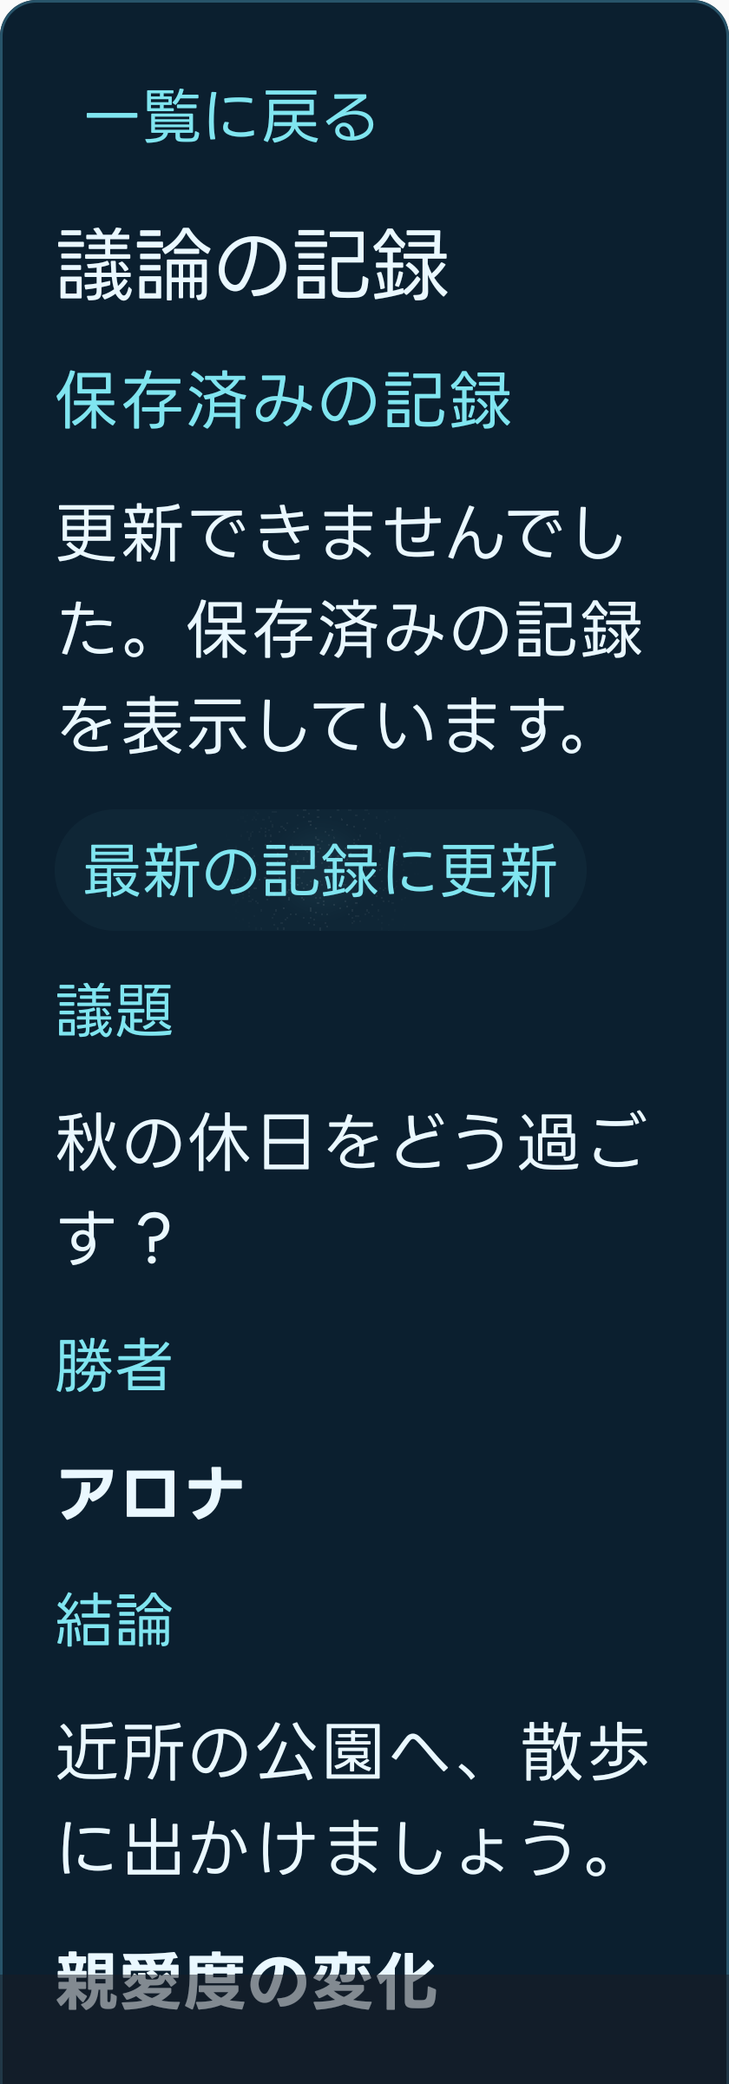
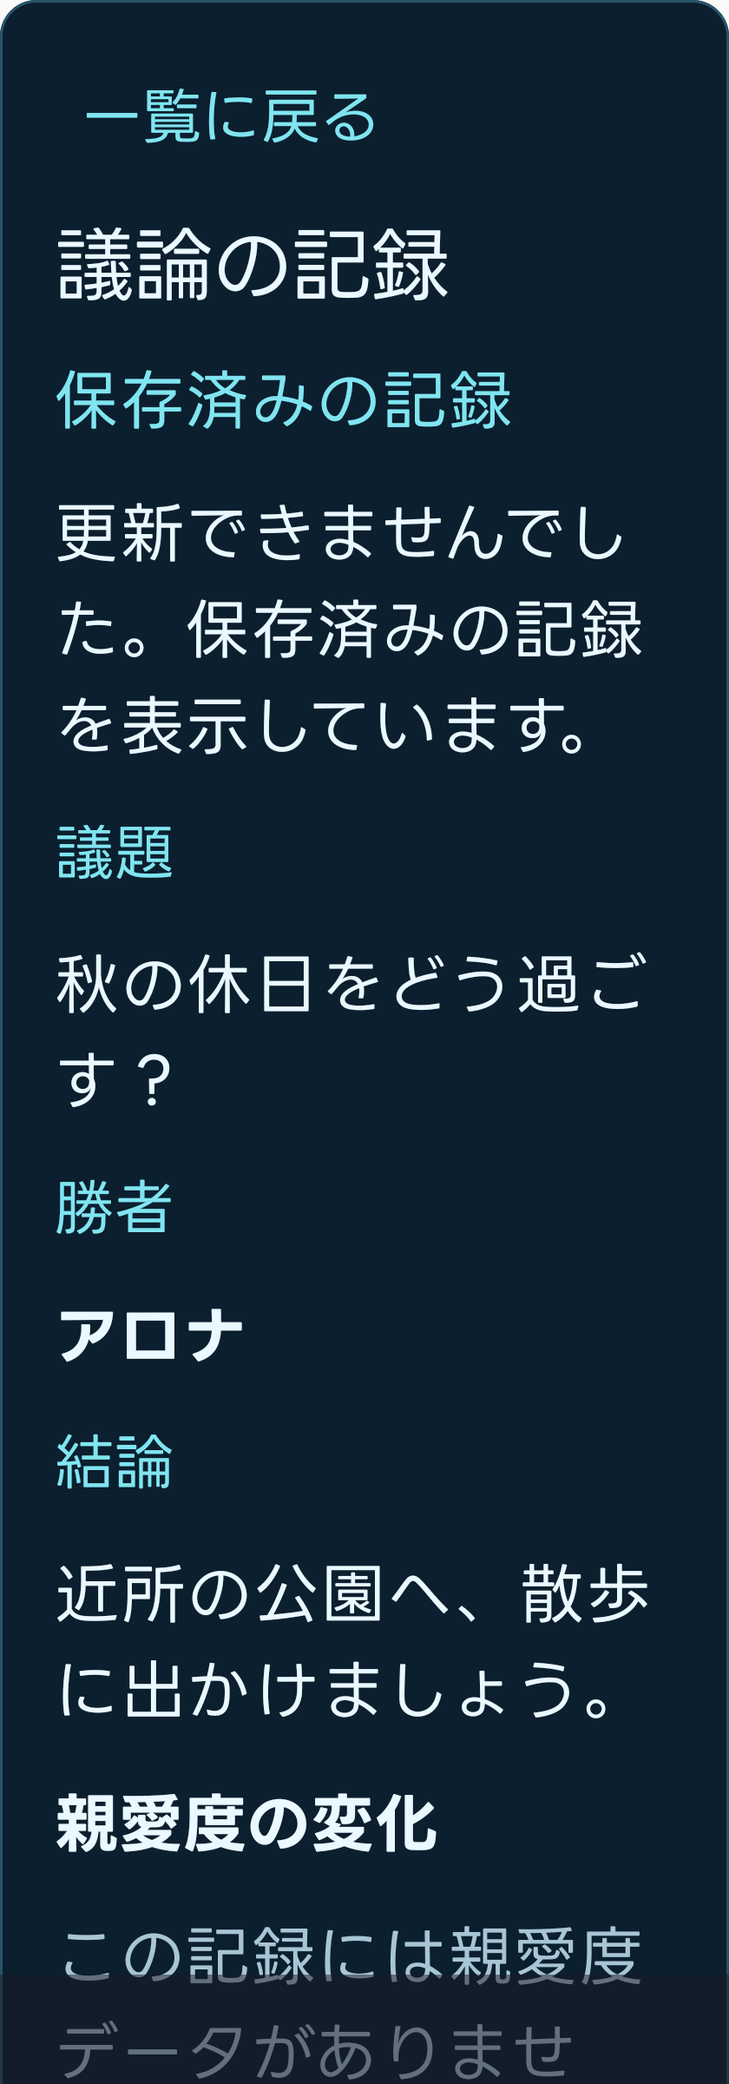
refactor(android): remove manual sync controls

diff --git a/apps/records-android/app/src/androidTest/java/dev/pitekusu/shittim/records/RecordSyncStatusTest.kt b/apps/records-android/app/src/androidTest/java/dev/pitekusu/shittim/records/RecordSyncStatusTest.kt
@@ -4,68 +4,70 @@ import android.graphics.Bitmap
 import androidx.activity.compose.setContent
 import androidx.compose.foundation.layout.Box
 import androidx.compose.foundation.layout.fillMaxWidth
+import androidx.compose.foundation.layout.padding
 import androidx.compose.foundation.layout.width
+import androidx.compose.material3.MaterialTheme
+import androidx.compose.material3.Surface
 import androidx.compose.runtime.CompositionLocalProvider
 import androidx.compose.runtime.mutableStateOf
 import androidx.compose.ui.Modifier
 import androidx.compose.ui.graphics.asAndroidBitmap
 import androidx.compose.ui.platform.LocalDensity
 import androidx.compose.ui.test.assertIsDisplayed
+import androidx.compose.ui.test.assertCountEquals
 import androidx.compose.ui.test.captureToImage
 import androidx.compose.ui.test.junit4.v2.createAndroidComposeRule
+import androidx.compose.ui.test.hasClickAction
 import androidx.compose.ui.test.onNodeWithText
 import androidx.compose.ui.test.onRoot
-import androidx.compose.ui.test.performClick
 import androidx.compose.ui.unit.Density
 import androidx.compose.ui.unit.dp
 import androidx.test.ext.junit.runners.AndroidJUnit4
 import androidx.test.platform.app.InstrumentationRegistry
 import dev.pitekusu.shittim.records.ui.ShittimTheme
 import java.io.File
-import org.junit.Assert.assertEquals
 import org.junit.Rule
 import org.junit.Test
 import org.junit.runner.RunWith
 
 @RunWith(AndroidJUnit4::class)
-class RecordSyncPanelTest {
+class RecordSyncStatusTest {
   @get:Rule val compose = createAndroidComposeRule<MainActivity>()
 
-  @Test fun actionsAndStatusRemainReadableInBothThemesAndLargeText() {
+  @Test fun automaticStatusHasNoActionsAndRemainsReadableInBothThemesAndLargeText() {
     val state = mutableStateOf<RecordSyncState>(RecordSyncState.Idle)
     val dark = mutableStateOf(false)
     val largeText = mutableStateOf(false)
-    val events = mutableListOf<BootstrapScreen.Event>()
     compose.activityRule.scenario.onActivity { activity ->
       activity.setContent {
         val density = LocalDensity.current
         CompositionLocalProvider(LocalDensity provides Density(density.density, if (largeText.value) 2f else 1f)) {
           ShittimTheme(dark.value) {
-            Box(if (largeText.value) Modifier.width(320.dp) else Modifier.fillMaxWidth()) {
-              RecordSyncPanel(state.value, events::add)
+            Surface(color = MaterialTheme.colorScheme.background) {
+              Box((if (largeText.value) Modifier.width(320.dp) else Modifier.fillMaxWidth()).padding(24.dp)) {
+                RecordSyncStatus(state.value)
+              }
             }
           }
         }
       }
     }
-    compose.onNodeWithText(label(R.string.record_sync_start)).performClick()
-    assertEquals(listOf(BootstrapScreen.Event.StartSync), events)
+    compose.onAllNodes(hasClickAction()).assertCountEquals(0)
+    compose.onNodeWithText(label(R.string.record_sync_running)).assertDoesNotExist()
     compose.runOnIdle { state.value = RecordSyncState.Running }
-    compose.onNodeWithText(label(R.string.record_sync_start)).assertDoesNotExist()
-    compose.onNodeWithText(label(R.string.record_sync_pause)).assertDoesNotExist()
+    compose.onNodeWithText(label(R.string.record_sync_running)).assertIsDisplayed()
     capture("sync-light")
     compose.runOnIdle { dark.value = true }
     compose.onNodeWithText(label(R.string.record_sync_running)).assertIsDisplayed()
     capture("sync-dark")
-    compose.runOnIdle { state.value = RecordSyncState.Completed; largeText.value = true }
-    compose.onNodeWithText(label(R.string.record_sync_completed)).assertIsDisplayed()
-    compose.onNodeWithText(label(R.string.record_sync_again)).assertIsDisplayed()
-    capture("sync-large-text")
-    compose.onNodeWithText(label(R.string.record_sync_again)).performClick()
-    compose.runOnIdle { state.value = RecordSyncState.Failed(RecordReadFailure.STORAGE_UNAVAILABLE) }
-    compose.onNodeWithText(label(R.string.record_sync_storage_error)).assertIsDisplayed()
     compose.runOnIdle { state.value = RecordSyncState.Completed }
-    compose.onNodeWithText(label(R.string.record_sync_again)).assertIsDisplayed()
+    compose.onNodeWithText(label(R.string.record_sync_running)).assertDoesNotExist()
+    compose.runOnIdle { state.value = RecordSyncState.Failed(RecordReadFailure.STORAGE_UNAVAILABLE); largeText.value = true }
+    compose.onNodeWithText(label(R.string.record_sync_storage_error)).assertIsDisplayed()
+    compose.onAllNodes(hasClickAction()).assertCountEquals(0)
+    capture("sync-large-text")
+    compose.runOnIdle { state.value = RecordSyncState.Completed }
+    compose.onNodeWithText(label(R.string.record_sync_storage_error)).assertDoesNotExist()
   }
 
   private fun label(id: Int): String = compose.activity.getString(id)

diff --git a/apps/records-android/app/src/main/java/dev/pitekusu/shittim/records/RecordSyncStatus.kt b/apps/records-android/app/src/main/java/dev/pitekusu/shittim/records/RecordSyncStatus.kt
@@ -1,0 +1,48 @@
+package dev.pitekusu.shittim.records
+
+import androidx.compose.foundation.layout.Arrangement
+import androidx.compose.foundation.layout.Row
+import androidx.compose.foundation.layout.fillMaxWidth
+import androidx.compose.foundation.layout.size
+import androidx.compose.material3.CircularProgressIndicator
+import androidx.compose.material3.MaterialTheme
+import androidx.compose.material3.Text
+import androidx.compose.runtime.Composable
+import androidx.compose.ui.Alignment
+import androidx.compose.ui.Modifier
+import androidx.compose.ui.res.stringResource
+import androidx.compose.ui.semantics.LiveRegionMode
+import androidx.compose.ui.semantics.liveRegion
+import androidx.compose.ui.semantics.semantics
+import androidx.compose.ui.unit.dp
+
+internal sealed interface RecordSyncState {
+  data object Idle : RecordSyncState
+  data object Running : RecordSyncState
+  data object Completed : RecordSyncState
+  class Failed(val reason: RecordReadFailure) : RecordSyncState
+}
+
+@Composable
+internal fun RecordSyncStatus(state: RecordSyncState) {
+  val description = when (state) {
+    RecordSyncState.Running -> R.string.record_sync_running
+    is RecordSyncState.Failed -> when (state.reason) {
+      RecordReadFailure.AUTH_REQUIRED -> R.string.record_sync_auth_error
+      RecordReadFailure.STORAGE_UNAVAILABLE -> R.string.record_sync_storage_error
+      else -> R.string.record_sync_error
+    }
+    RecordSyncState.Idle, RecordSyncState.Completed -> return
+  }
+  Row(Modifier.fillMaxWidth(), horizontalArrangement = Arrangement.spacedBy(12.dp),
+    verticalAlignment = Alignment.CenterVertically) {
+    if (state == RecordSyncState.Running) {
+      // Background enumeration has no known total; do not invent a percentage.
+      CircularProgressIndicator(Modifier.size(20.dp), strokeWidth = 2.dp)
+    }
+    Text(stringResource(description), style = MaterialTheme.typography.bodySmall,
+      color = if (state is RecordSyncState.Failed) MaterialTheme.colorScheme.error
+        else MaterialTheme.colorScheme.onSurfaceVariant,
+      modifier = Modifier.weight(1f).semantics { liveRegion = LiveRegionMode.Polite })
+  }
+}

diff --git a/apps/records-android/app/src/androidTest/java/dev/pitekusu/shittim/records/OfflineRecordsUiTest.kt b/apps/records-android/app/src/androidTest/java/dev/pitekusu/shittim/records/OfflineRecordsUiTest.kt
@@ -10,8 +10,10 @@ import androidx.compose.ui.Modifier
 import androidx.compose.ui.graphics.asAndroidBitmap
 import androidx.compose.ui.platform.LocalDensity
 import androidx.compose.ui.test.assertIsDisplayed
+import androidx.compose.ui.test.assertCountEquals
 import androidx.compose.ui.test.captureToImage
 import androidx.compose.ui.test.junit4.v2.createAndroidComposeRule
+import androidx.compose.ui.test.hasClickAction
 import androidx.compose.ui.test.onNodeWithText
 import androidx.compose.ui.test.onRoot
 import androidx.compose.ui.test.performClick
@@ -31,7 +33,7 @@ import org.junit.runner.RunWith
 class OfflineRecordsUiTest {
   @get:Rule val compose = createAndroidComposeRule<MainActivity>()
 
-  @Test fun savedDetailAndUpdateFailureRemainReadableAndRetryable() {
+  @Test fun savedDetailAndUpdateFailureRemainReadableWithoutSyncControls() {
     val dark = mutableStateOf(false)
     val large = mutableStateOf(false)
     val events = mutableListOf<BootstrapScreen.Event>()
@@ -56,10 +58,11 @@ class OfflineRecordsUiTest {
       compose.runOnIdle { dark.value = isDark; large.value = isLarge }
       compose.onNodeWithText(label(R.string.record_saved)).assertIsDisplayed()
       compose.onNodeWithText(label(R.string.record_refresh_failed)).assertIsDisplayed()
-      compose.onNodeWithText(label(R.string.record_refresh)).performClick()
+      compose.onAllNodes(hasClickAction()).assertCountEquals(1) // Only the return-to-list action.
       capture(name)
     }
-    assertEquals(List(3) { BootstrapScreen.Event.RetryRecord }, events)
+    compose.onNodeWithText(label(R.string.record_close)).performClick()
+    assertEquals(listOf(BootstrapScreen.Event.CloseRecord), events)
   }
 
   @Test fun authorizedOfflineDetailClosesOnBackAndDisappearsWhenLocked() {

diff --git a/apps/records-android/app/src/main/java/dev/pitekusu/shittim/records/RecordListPanel.kt b/apps/records-android/app/src/main/java/dev/pitekusu/shittim/records/RecordListPanel.kt
@@ -56,6 +56,7 @@ internal fun LazyListScope.recordListItems(
   state: RecordListState,
   pagingItems: LazyPagingItems<RecordListEntry>?,
   onEvent: (BootstrapScreen.Event) -> Unit,
+  sync: RecordSyncState = RecordSyncState.Idle,
 ) {
   item(key = "records-heading") {
     Column(verticalArrangement = Arrangement.spacedBy(8.dp)) {
@@ -65,20 +66,22 @@ internal fun LazyListScope.recordListItems(
         modifier = Modifier.semantics { heading() })
     }
   }
+  if (sync == RecordSyncState.Running || sync is RecordSyncState.Failed) {
+    item(key = "records-sync-status") { RecordSyncStatus(sync) }
+  }
   if (state !is RecordListState.Ready || pagingItems == null) {
     item(key = "records-waiting") {
-      if (state is RecordListState.Error) Text(stringResource(R.string.record_list_error)) else LoadingRecords()
+      if (state is RecordListState.Error) {
+        if (sync !is RecordSyncState.Failed) Text(stringResource(R.string.record_list_error))
+      } else LoadingRecords()
     }
     return
   }
-  item(key = "records-source") {
+  if (state.saved || state.refreshFailure != null) item(key = "records-source") {
     Column(verticalArrangement = Arrangement.spacedBy(8.dp)) {
       if (state.saved) Text(stringResource(R.string.record_saved), color = MaterialTheme.colorScheme.primary)
       if (state.refreshFailure != null) Text(stringResource(if (state.refreshFailure == RecordReadFailure.STORAGE_UNAVAILABLE)
         R.string.record_save_failed else R.string.record_refresh_failed))
-      Button(onClick = { onEvent(BootstrapScreen.Event.RefreshRecords) }) {
-        Text(stringResource(R.string.record_refresh))
-      }
     }
   }
   when (pagingItems.loadState.refresh) {

diff --git a/apps/records-android/app/src/androidTest/java/dev/pitekusu/shittim/records/BootstrapUiNavigationTest.kt b/apps/records-android/app/src/androidTest/java/dev/pitekusu/shittim/records/BootstrapUiNavigationTest.kt
@@ -66,17 +66,16 @@ class BootstrapUiNavigationTest {
     compose.onNodeWithText("議題 12").assertIsDisplayed()
   }
 
-  @Test fun syncActionIsHiddenAfterLeavingTheAuthenticatedSession() {
+  @Test fun automaticSyncStatusIsHiddenAfterLeavingTheAuthenticatedSession() {
     val user = MobileSessionUser("架空の依頼者", MobileAvatar("placeholder", "依頼者", "cyan"))
     val state = mutableStateOf(BootstrapScreen.State(ThemeChoice.System,
       SessionState.SignedIn(user, "u".repeat(43), Instant.parse("2027-01-01T00:00:00Z"), "/"),
       sync = RecordSyncState.Running, eventSink = {}))
     compose.activityRule.scenario.onActivity { it.setContent { BootstrapUi(state.value) } }
-    val title = compose.activity.getString(R.string.record_sync_title)
-    compose.onNodeWithTag("bootstrap-content").performScrollToNode(hasText(title))
-    compose.onNodeWithText(title).assertIsDisplayed()
+    val status = compose.activity.getString(R.string.record_sync_running)
+    compose.onNodeWithTag("bootstrap-content").performScrollToNode(hasText(status))
+    compose.onNodeWithText(status).assertIsDisplayed()
     compose.runOnIdle { state.value = BootstrapScreen.State(ThemeChoice.System) {} }
-    compose.onNodeWithText(title).assertDoesNotExist()
-    compose.onNodeWithText(compose.activity.getString(R.string.record_sync_pause)).assertDoesNotExist()
+    compose.onNodeWithText(status).assertDoesNotExist()
   }
 }

diff --git a/apps/records-android/app/src/main/java/dev/pitekusu/shittim/records/BootstrapPresenter.kt b/apps/records-android/app/src/main/java/dev/pitekusu/shittim/records/BootstrapPresenter.kt
@@ -52,9 +52,7 @@ internal data object BootstrapScreen : Screen {
     data object Logout : Event
     data object Retry : Event
     data object RetryRecord : Event
-    data object RefreshRecords : Event
     data object RecordsAuthRequired : Event
-    data object StartSync : Event
     data class OpenRecord(val recordId: String) : Event
     data object CloseRecord : Event
   }
@@ -207,12 +205,7 @@ internal class BootstrapPresenter(
           recordRetry++
           if (!signedIn) session.retry() else RecordSyncScheduler.syncNow(context)
         }
-        BootstrapScreen.Event.RefreshRecords -> {
-          listRetry++
-          if (!signedIn) session.retry() else RecordSyncScheduler.syncNow(context)
-        }
         BootstrapScreen.Event.RecordsAuthRequired -> session.onForeground()
-        BootstrapScreen.Event.StartSync -> if (currentSignedIn != null) RecordSyncScheduler.syncNow(context)
         is BootstrapScreen.Event.OpenRecord -> if (
           event.recordId in ((visibleList as? RecordListState.Ready)?.loadedIds ?: emptySet())
         ) session.openDestination("/records/${event.recordId}")

diff --git a/apps/records-android/app/src/main/java/dev/pitekusu/shittim/records/BootstrapUi.kt b/apps/records-android/app/src/main/java/dev/pitekusu/shittim/records/BootstrapUi.kt
@@ -160,10 +160,8 @@ private fun BootstrapControls(
       if (state.session == SessionState.Unavailable) item(key = "offline-notice") {
         Text(stringResource(R.string.record_offline))
       }
-      if (state.session is SessionState.SignedIn && state.selectedRecordId == null) item(key = "record-sync") {
-        RecordSyncPanel(state.sync, state.eventSink)
-      }
-      if (state.selectedRecordId == null) recordListItems(state.records, pagingItems, state.eventSink)
+      if (state.selectedRecordId == null) recordListItems(state.records, pagingItems, state.eventSink,
+        sync = if (state.session is SessionState.SignedIn) state.sync else RecordSyncState.Idle)
       else item(key = "record-detail") { RecordPreviewPanel(state.record, state.eventSink) }
     }
   }

diff --git a/apps/records-android/app/src/main/java/dev/pitekusu/shittim/records/RecordPreviewPanel.kt b/apps/records-android/app/src/main/java/dev/pitekusu/shittim/records/RecordPreviewPanel.kt
@@ -54,9 +54,6 @@ internal fun RecordPreviewPanel(state: RecordPreviewState, onEvent: (BootstrapSc
           if (state.updating) Text(stringResource(R.string.record_refreshing))
           if (state.refreshFailure != null) Text(stringResource(if (state.refreshFailure == RecordReadFailure.STORAGE_UNAVAILABLE)
             R.string.record_save_failed else R.string.record_refresh_failed))
-          TextButton(onClick = { onEvent(BootstrapScreen.Event.RetryRecord) }, enabled = !state.updating) {
-            Text(stringResource(R.string.record_refresh))
-          }
           Text(stringResource(R.string.record_question), style = MaterialTheme.typography.labelLarge,
             color = MaterialTheme.colorScheme.primary)
           RecordMarkdown(state.preview.question)

diff --git a/apps/records-android/README.md b/apps/records-android/README.md
@@ -104,7 +104,7 @@ AVDは`shittim-expressive-preview`を使用する。別の環境ではDevice Man
 
 ### レビュー用スクリーンショット
 
-C32追加の自動同期パネル（API 36、架空の画面状態のみ・実データなし）：
+C32追加の自動同期の状態通知（API 36、架空の画面状態のみ・実データなし）。専用の同期メニュー・手動更新ボタンは設けず、同期中・失敗時だけ一覧へ小さく表示する：
 
 - [ライト](screenshots/sync-light.png)
 - [ダーク](screenshots/sync-dark.png)
@@ -277,7 +277,7 @@ C16のログイン画面（API 36、未認証・実データなし）：
 
 ## C31の全記録同期
 
-- ログイン・復帰時に自動同期し、「今すぐ差分を確認」でも予約できる。全索引ページをたどり、未保存・更新分だけを1件ずつ暗号化保存する。件数未確定のため推測した割合は表示しない。
+- ログイン・復帰時に自動同期する。専用の同期メニュー・手動更新ボタンは設けず、同期中・失敗時だけ小さく状態を表示する。全索引ページをたどり、未保存・更新分だけを1件ずつ暗号化保存する。件数未確定のため推測した割合は表示しない。
 - C31の初期実装は画面起点だったが、C32追加仕様でWorkManagerによるバックグラウンド自動同期へ変更した。詳細への移動・画面停止／再生成では同期を止めない。OSによる停止時は保存済み進捗から再開する。
 - 進捗は既存の暗号化Storeに別用途で保存し、Room schemaや既存本文の形式は変えない。ログアウト・別アカウントへの切替では進捗も消す。token・質問・プロフィールは進捗へ保存しない。
 - 再起動後もWorkManagerから未完了分を続行する。cursor期限切れは1回だけ先頭から列挙し直し、版が一致する保存済み詳細は再取得しない。通信／保存エラーやキャンセルでは完了扱いにしない。
@@ -295,7 +295,7 @@ API 36・架空データで確認した保存済み詳細パネル：[ライト]
 
 ### バックグラウンド自動同期と差分取得
 
-- ログイン・アプリ復帰後に即時同期を予約し、約15分間隔の定期同期を一意なWorkManagerジョブとして保持する。ネットワーク接続が必要で、省電力・Doze・強制停止等により実行は遅れる。サーバーpushによる瞬時反映ではない。「今すぐ差分を確認」で手動予約も可能。
+- ログイン・アプリ復帰後に即時同期を予約し、約15分間隔の定期同期を一意なWorkManagerジョブとして保持する。ネットワーク接続が必要で、省電力・Doze・強制停止等により実行は遅れる。サーバーpushによる瞬時反映ではない。一覧・保存済み詳細に手動同期操作は置かず、通常の閲覧を妨げない。
 - `GET /api/v1/records/sync-index`は50件ずつの軽量なID・記録版・アイコン版だけを返す。質問・依頼者名・回答は返さない。全索引を照合するため、古い日付で後から追加された記録や削除も検出できる。本文は未保存・更新版だけ取得し、同じ依頼者の同じ版のアイコンは共有して再取得しない。
 - 同期索引をまだ持たない旧キャッシュは、初回だけ本文を再確認して基準版を作る。その間も保存済み記録は読める。新APIをRecords Releaseで先に配信し、その後Androidを配布する。旧アプリの既存GET契約は維持する。
 - Workerは実行時にKeystoreからtokenを読み、サーバーの本人・期限を確認する。WorkManagerの入力・出力・進捗へtoken、質問、利用者IDを入れない。各保存境界で期限・削除意図・同じtoken・所有者を確認し、所有者を再活性化しない。失効確認時はオフライン認可もロックする。

diff --git a/docs/29_Androidアプリ設計.md b/docs/29_Androidアプリ設計.md
@@ -768,7 +768,7 @@ cursor期限切れは保存済み記録を残して1試行につき1回だけ先
 
 初期のC31では画面起点で開始・停止した。現在はC32追加仕様に従い、WorkManagerが画面停止後も同期を継続し、OS停止後は保存済み進捗から再開する。全体件数は列挙完了まで不明なので、割合を推測せず不定のインジケーターと状態文で表示する。ログアウト・切替では処理権を閉じ、予約を停止する。
 
-試験は架空APIと実Keystore／Roomで、全ページ・重複・未取得詳細だけの取得、通信失敗／キャンセル後の再オープン、cursor期限切れ／巡回、詳細404、認可喪失時の遅延保存拒否を確認する。画面の開始・停止・再開・完了・保存エラーと未認証時の非表示、明暗・320dp／文字2倍をエミュレーターで確認する。本番通信やPlay配布をこの試験へ混ぜない。
+試験は架空APIと実Keystore／Roomで、全ページ・重複・未取得詳細だけの取得、通信失敗／キャンセル後の再オープン、cursor期限切れ／巡回、詳細404、認可喪失時の遅延保存拒否を確認する。現在の画面はC32追加仕様に従い、同期中・失敗時だけの状態表示と、未認証時・通常時の非表示、明暗・320dp／文字2倍をエミュレーターで確認する。本番通信やPlay配布をこの試験へ混ぜない。
 
 オフライン画面・オンライン更新との統合はC32で扱う。C31単独では保存済み詳細の更新や削除の反映を行わず、同期完了はオフライン画面の完成を意味しない。
 
@@ -787,6 +787,8 @@ Room schema 1と一覧・詳細の暗号形式は維持する。削除候補はo
 ### C32追加：アイコン保存・バックグラウンド自動同期・差分読取
 
 新要件を受け、WorkManagerを採用する。既定のKotlin・Compose・Materialバージョンは維持し、予約・制約・プロセス再起動・再試行を独自に実装しない。ログイン／アプリ復帰後に即時ジョブ、15分間隔の定期ジョブを一意な名前で予約する。ネットワーク接続が条件で、Doze・省電力設定・強制停止等により遅れる。新規記録の瞬時push通知は追加しない。
+
+同期は起動・復帰後に自動実行するため、専用の同期メニュー・同期ボタン・一覧／保存済み詳細の手動更新操作は設けない。通常時・完了時は同期UIを表示せず、同期中・失敗時だけ一覧へ小さな状態通知を置く。通信障害では次の自動同期で再試行し、保存失敗では空き容量の確認を案内する。ログインや未保存詳細の取得失敗に対する既存の再試行操作は維持する。
 
 認証済み`GET /api/v1/records/sync-index`は、50件ずつのopaque記録ID・記録版・アイコン版だけを返す。質問・名前・本文・画像URL・内部キーは返さない。cursorは一覧APIと用途を区別してHMAC保護する。Archive本文は不変で、記録版にはメタ情報と更新される依頼者プロフィール、アイコン版にはプロフィール情報を反映する。署名付きURLの期限は版に含めない。全索引を照合し、古い日付の遅延追加と削除も検出する。索引通信は毎回必要だが、議論結果の本文は未保存・変更分だけ取得する。旧キャッシュは初回だけ版の基準を再確認する間も表示可能とする。
 
